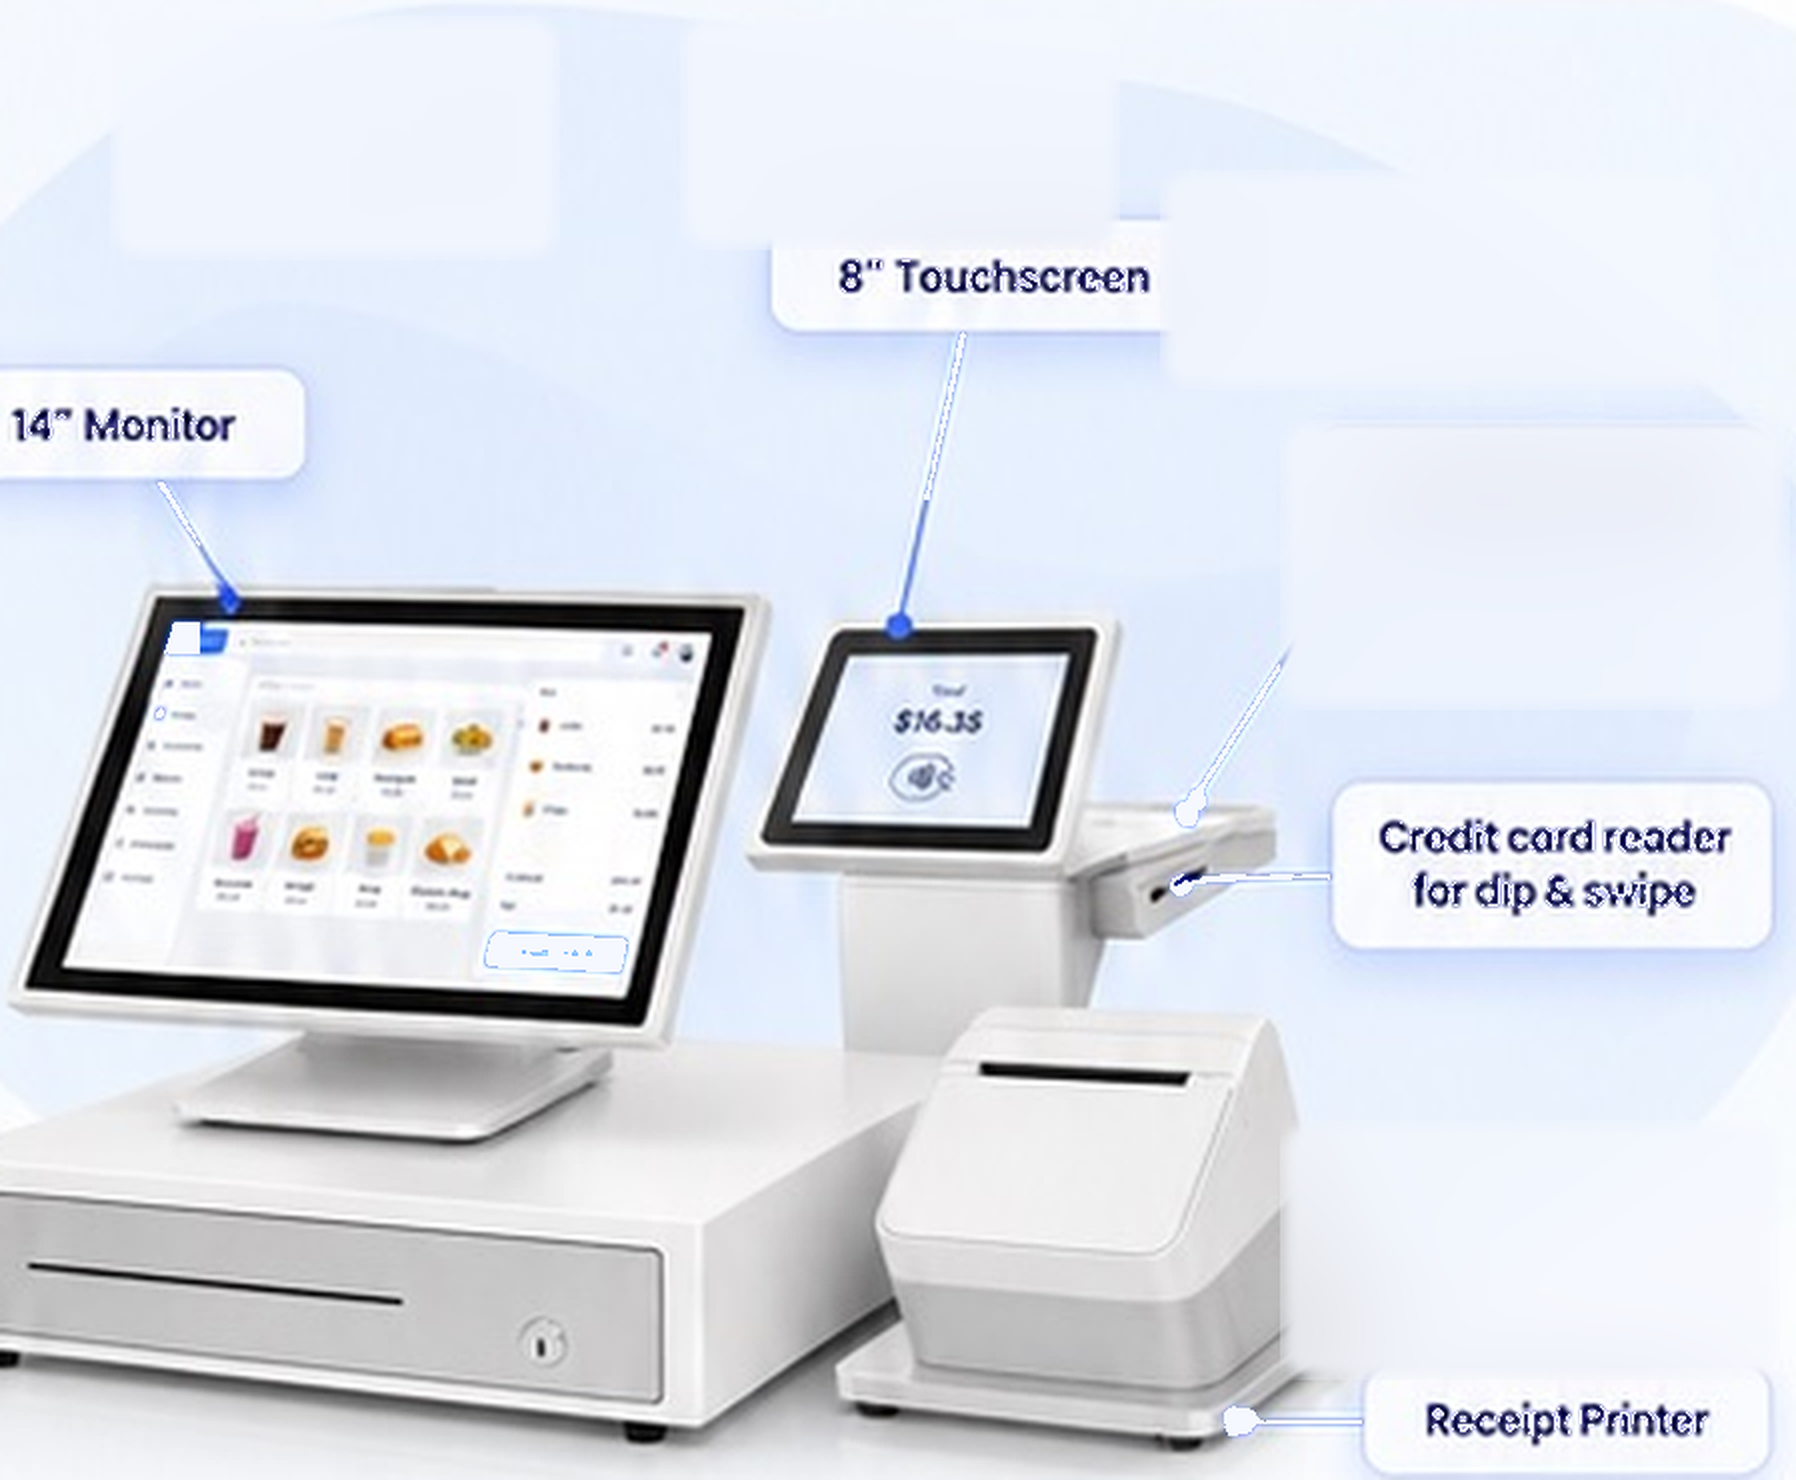
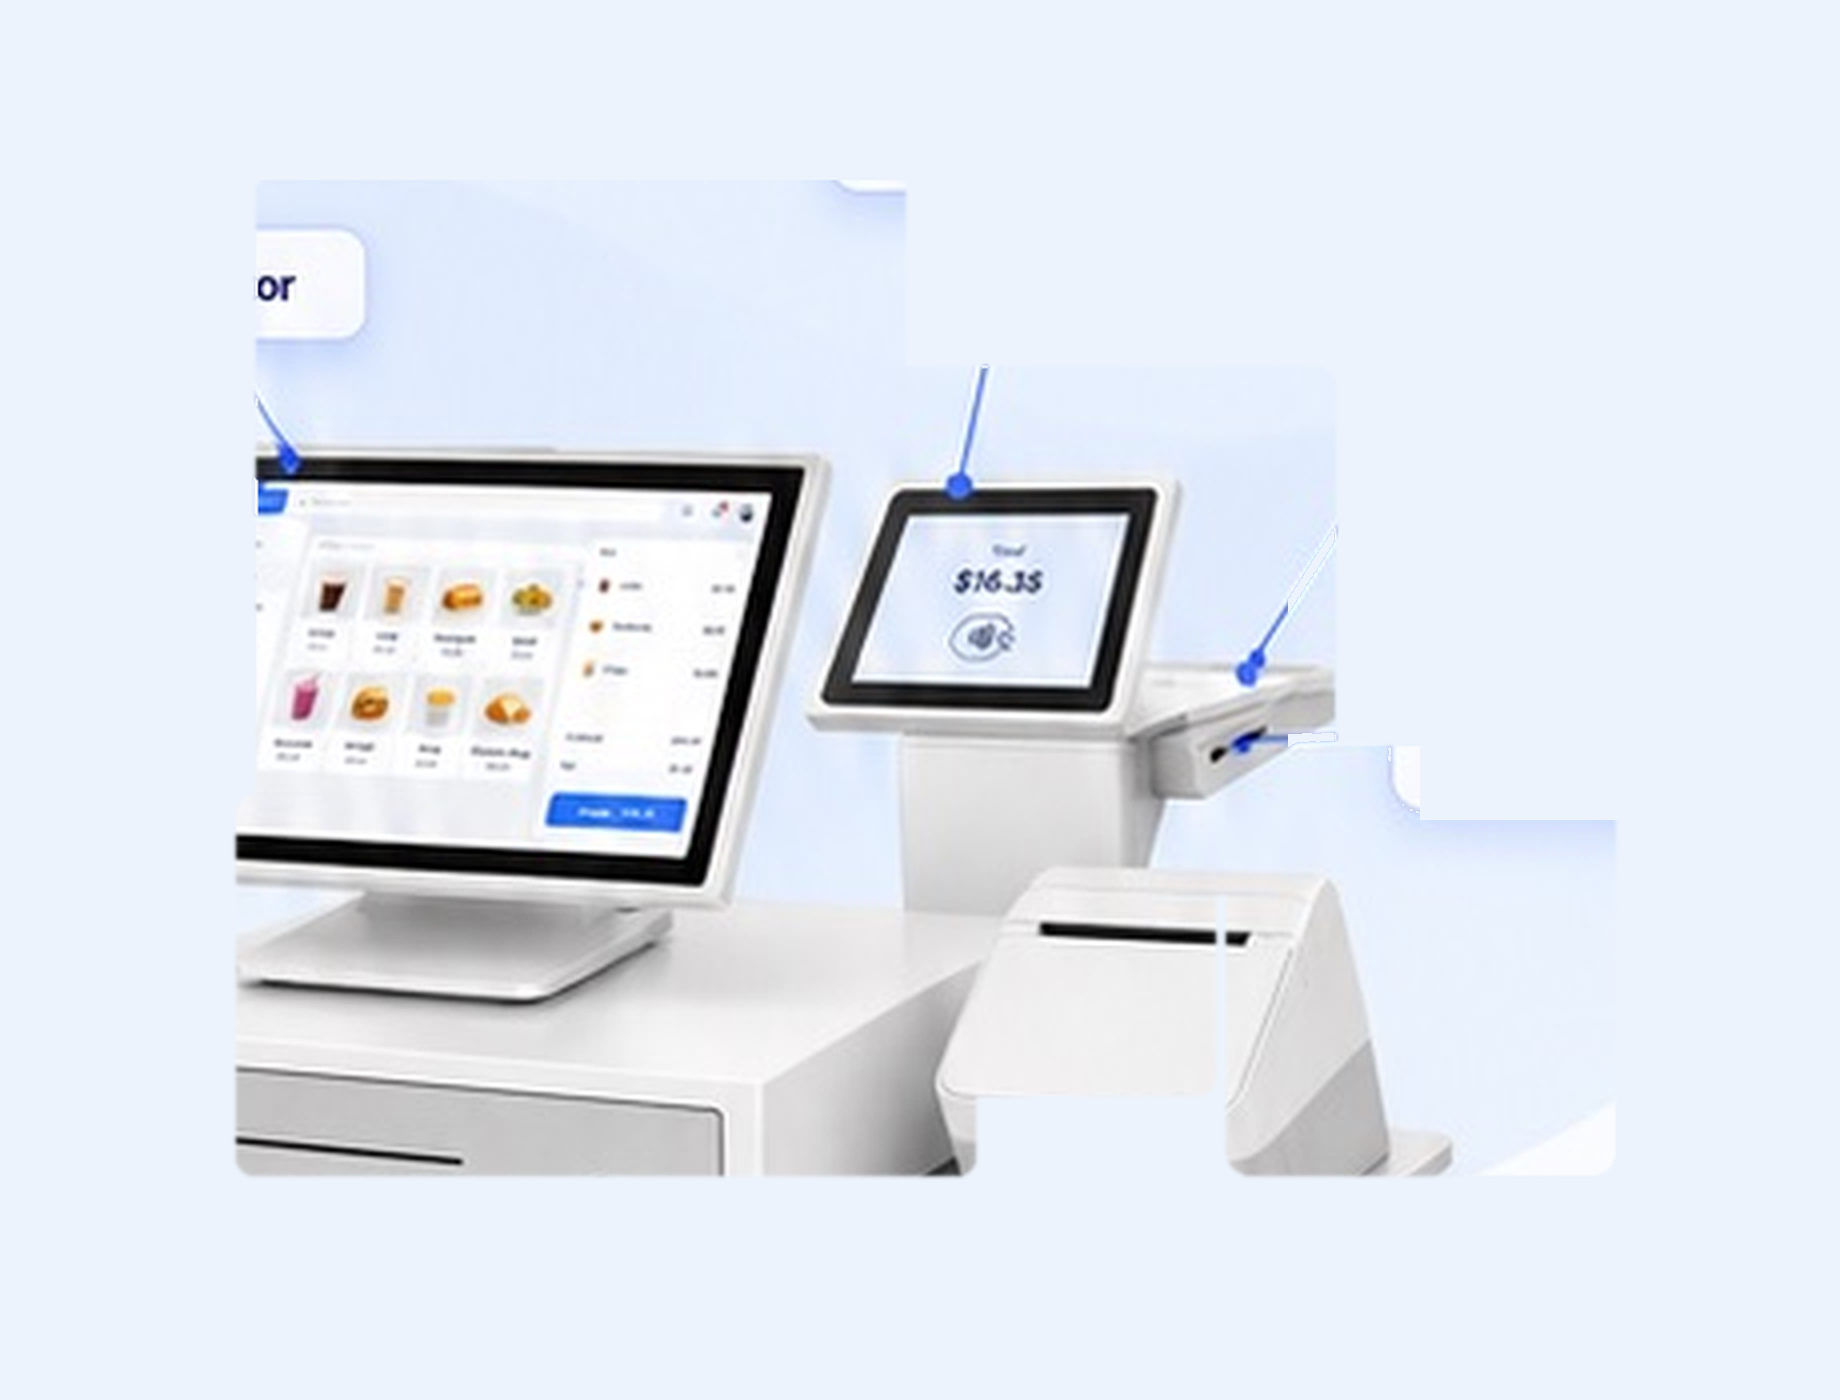
Tighten Full POS hero plate and callout positioning
Re-crop the hardware-only hero with a silhouette mask so baked-in
callout ghosts are fully removed, then retune HTML overlay positions
and mobile chip breakpoints for the padded retina plate.

Changed region(s): [[0.0, 0.1536, 0.9978, 1.0], [0.4365, 0.1229, 0.6548, 0.2764], [0.7795, 0.9521, 0.9666, 0.9829]]

diff --git a/src/components/merchant/full-pos/FullPosHero.tsx b/src/components/merchant/full-pos/FullPosHero.tsx
@@ -8,50 +8,49 @@ type Callout = {
   pill: { left: string; top: string };
   /** Anchor dot on the hardware as % of the hero stage */
   anchor: { left: string; top: string };
-  /** Optional max width for multi-line pills */
   maxWidth?: string;
   align?: "left" | "center" | "right";
 };
 
 /**
- * Callout geometry is tuned to the approved Full POS hardware crop.
- * Percentages are relative to the image stage so they stay locked to the product.
+ * Geometry is relative to the padded clean hardware plate.
+ * Hardware occupies roughly 8.6%–91.4% X and 10%–90% Y of the stage.
  */
 const CALLOUTS: Callout[] = [
   {
     id: "monitor",
     label: '14" Monitor',
-    pill: { left: "10%", top: "3%" },
-    anchor: { left: "22%", top: "18%" },
+    pill: { left: "8%", top: "1.5%" },
+    anchor: { left: "24%", top: "16%" },
     align: "left",
   },
   {
     id: "touchscreen",
     label: '8" Touchscreen',
-    pill: { left: "42%", top: "2.5%" },
-    anchor: { left: "52%", top: "22%" },
+    pill: { left: "48%", top: "1%" },
+    anchor: { left: "55%", top: "20%" },
     align: "center",
   },
   {
     id: "contactless",
     label: "Contactless reader",
-    pill: { left: "68%", top: "14%" },
-    anchor: { left: "64%", top: "28%" },
+    pill: { left: "72%", top: "12%" },
+    anchor: { left: "68%", top: "26%" },
     align: "left",
   },
   {
     id: "card-reader",
     label: "Credit card reader\nfor dip & swipe",
-    pill: { left: "70%", top: "34%" },
-    anchor: { left: "66%", top: "42%" },
-    maxWidth: "9.5rem",
+    pill: { left: "74%", top: "34%" },
+    anchor: { left: "70%", top: "42%" },
+    maxWidth: "9.75rem",
     align: "left",
   },
   {
     id: "printer",
     label: "Receipt Printer",
-    pill: { left: "72%", top: "78%" },
-    anchor: { left: "76%", top: "72%" },
+    pill: { left: "76%", top: "82%" },
+    anchor: { left: "80%", top: "74%" },
     align: "left",
   },
 ];
@@ -66,7 +65,7 @@ function CalloutPill({ callout }: { callout: Callout }) {
 
   return (
     <div
-      className="pointer-events-none absolute z-[2] hidden sm:block"
+      className="pointer-events-none absolute z-[2] hidden md:block"
       style={{
         left: callout.pill.left,
         top: callout.pill.top,
@@ -74,9 +73,7 @@ function CalloutPill({ callout }: { callout: Callout }) {
         maxWidth: callout.maxWidth,
       }}
     >
-      <span
-        className="inline-block whitespace-pre-line rounded-full border border-[#c7dbff] bg-white px-3 py-1.5 text-center font-heading text-[11px] font-bold leading-tight text-[#1e3a8a] shadow-[0_4px_14px_-6px_rgba(37,99,235,0.45)] sm:px-3.5 sm:text-xs md:text-[13px]"
-      >
+      <span className="inline-block whitespace-pre-line rounded-full border border-[#c7dbff] bg-white px-3 py-1.5 text-center font-heading text-[11px] font-bold leading-tight text-[#1e3a8a] shadow-[0_4px_14px_-6px_rgba(37,99,235,0.45)] sm:px-3.5 sm:text-xs lg:text-[13px]">
         {callout.label}
       </span>
     </div>
@@ -86,7 +83,7 @@ function CalloutPill({ callout }: { callout: Callout }) {
 function CalloutConnectors() {
   return (
     <svg
-      className="pointer-events-none absolute inset-0 z-[1] hidden h-full w-full sm:block"
+      className="pointer-events-none absolute inset-0 z-[1] hidden h-full w-full md:block"
       viewBox="0 0 100 100"
       preserveAspectRatio="none"
       aria-hidden="true"
@@ -96,7 +93,6 @@ function CalloutConnectors() {
         const y1 = Number.parseFloat(c.pill.top) + 3.2;
         const x2 = Number.parseFloat(c.anchor.left);
         const y2 = Number.parseFloat(c.anchor.top);
-        // Nudge line start toward pill center for center-aligned pills
         const startX =
           c.align === "center" ? x1 : c.align === "right" ? x1 - 4 : x1 + 6;
         return (
@@ -110,7 +106,7 @@ function CalloutConnectors() {
               strokeWidth="0.35"
               vectorEffect="non-scaling-stroke"
             />
-            <circle cx={x2} cy={y2} r="0.7" fill="#3b82f6" />
+            <circle cx={x2} cy={y2} r="0.65" fill="#3b82f6" />
           </g>
         );
       })}
@@ -118,10 +114,13 @@ function CalloutConnectors() {
   );
 }
 
-/** Compact, readable label chips for small screens (no tiny overlay text). */
+/** Compact readable chips below the product on small screens. */
 function MobileCalloutList() {
   return (
-    <ul className="mt-4 flex flex-wrap justify-center gap-2 sm:hidden" aria-label="System components">
+    <ul
+      className="mt-4 flex flex-wrap justify-center gap-2 md:hidden"
+      aria-label="System components"
+    >
       {CALLOUTS.map((c) => (
         <li
           key={c.id}
@@ -140,7 +139,7 @@ export function FullPosHero() {
   return (
     <div className="relative w-full min-w-0">
       <div
-        className="pointer-events-none absolute left-1/2 top-1/2 h-[78%] w-[92%] -translate-x-1/2 -translate-y-1/2 rounded-[50%] bg-[#e8f2ff] blur-[2px]"
+        className="pointer-events-none absolute left-1/2 top-[52%] h-[70%] w-[88%] -translate-x-1/2 -translate-y-1/2 rounded-[50%] bg-[#e8f2ff] blur-[2px]"
         aria-hidden="true"
       />
       <div className="relative z-[1] mx-auto w-full max-w-full">
@@ -152,7 +151,7 @@ export function FullPosHero() {
             height={hero.height}
             priority
             quality={92}
-            sizes="(max-width: 640px) 100vw, (max-width: 1024px) 90vw, 58vw"
+            sizes="(max-width: 768px) 100vw, (max-width: 1024px) 90vw, 58vw"
             className="relative mx-auto object-contain"
             style={{ width: "100%", height: "auto", maxWidth: "100%" }}
           />

diff --git a/src/lib/full-pos-images.ts b/src/lib/full-pos-images.ts
@@ -7,11 +7,11 @@
  */
 export const FULL_POS_IMAGES = {
   hero: {
-    /** Clean hardware plate (labels removed); ~2× source for retina. Next/Image serves modern formats. */
+    /** Hardware-only plate (labels cropped out); ~2× for retina. Live HTML callouts in FullPosHero. */
     src: "/images/merchant/full-pos/full-pos-hero-clean.png",
     alt: "Full POS System with 14 inch monitor, 8 inch touchscreen, contactless reader, credit card reader, receipt printer, and cash drawer",
-    width: 1796,
-    height: 1480,
+    width: 1840,
+    height: 1400,
   },
   dashboard: {
     src: "/images/merchant/full-pos/dashboard-devices.png",
